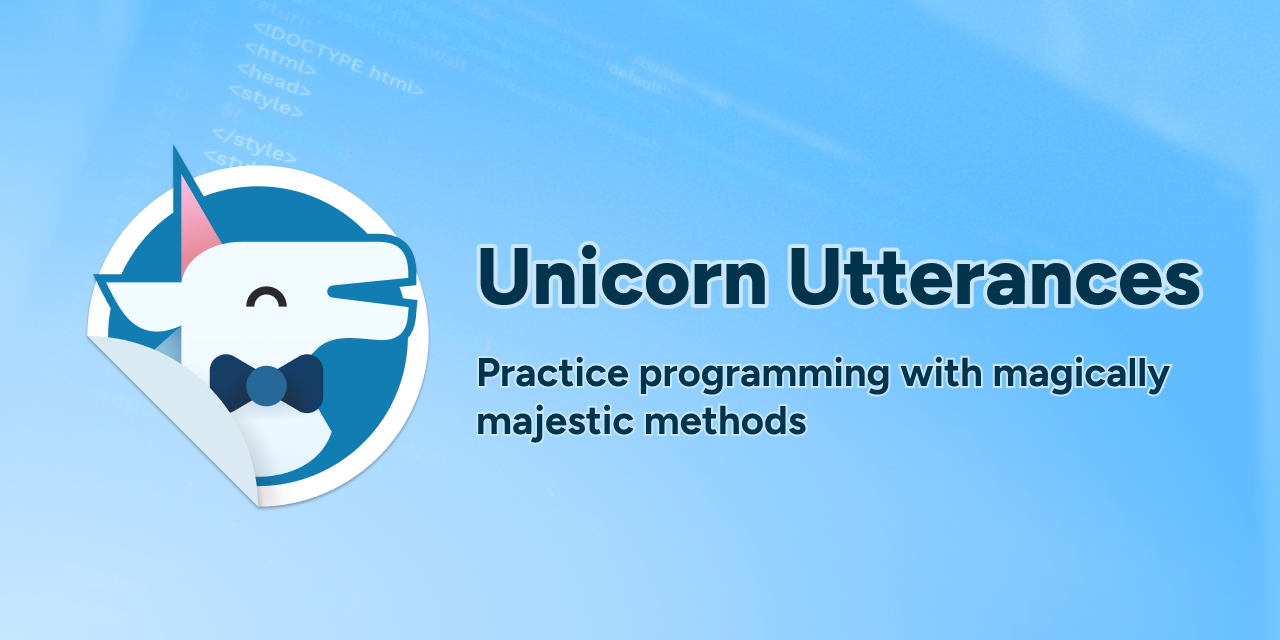
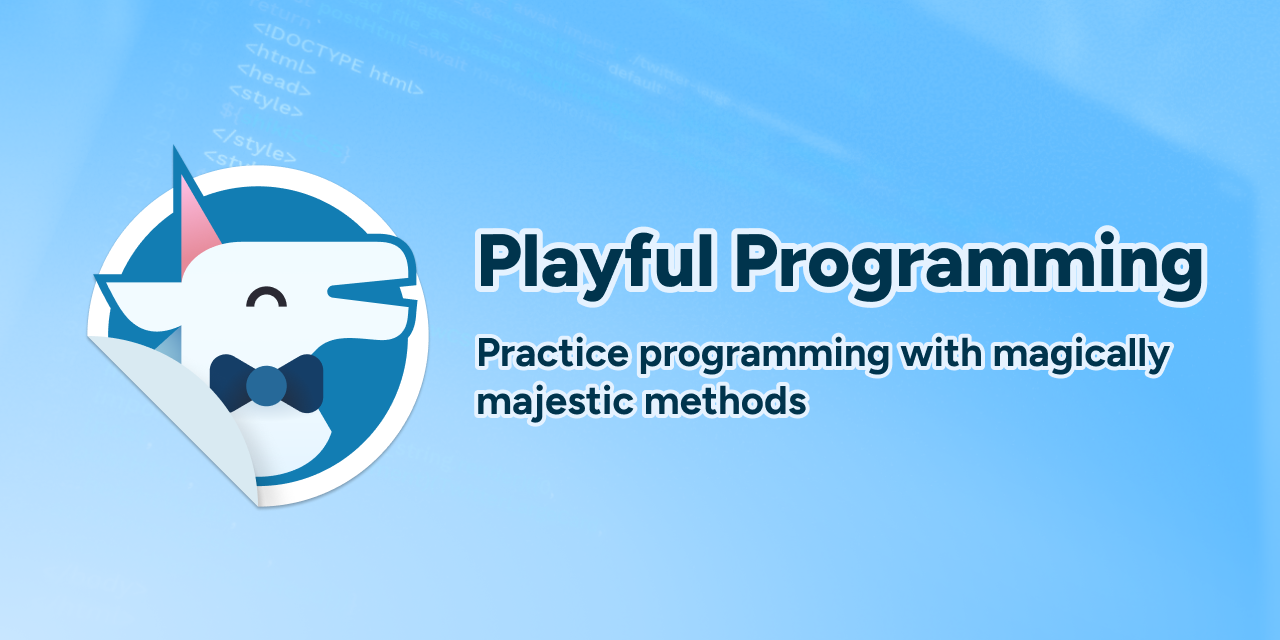
chore: update all references to the old GH repo/org to the new one

Changed region(s): [[0.3438, 0.3438, 0.9688, 0.6875]]

diff --git a/src/utils/achievements/github.ts b/src/utils/achievements/github.ts
@@ -59,7 +59,7 @@ if (userResult) {
 
 const dataQuery = `
 query($login: String, $id: ID, $prSearch: String!) {
-	repository(owner: "unicorn-utterances", name: "unicorn-utterances") {
+	repository(owner: "playfulprogramming", name: "playfulprogramming") {
 		defaultBranchRef {
 			target {
 				... on Commit {
@@ -97,7 +97,7 @@ export async function fetchGitHubData(
 	const response = (await octokit.graphql(dataQuery, {
 		login,
 		id,
-		prSearch: `repo:unicorn-utterances/unicorn-utterances is:pr author:${login}`,
+		prSearch: `repo:playfulprogramming/playfulprogramming is:pr author:${login}`,
 	})) as {
 		repository: {
 			defaultBranchRef: {

diff --git a/src/constants/site-config.ts b/src/constants/site-config.ts
@@ -31,7 +31,7 @@ const siteMetadata = {
 	title: `Playful Programming`,
 	description: `Learning programming from magically majestic words. A place to learn about all sorts of programming topics from entry-level concepts to advanced abstractions`,
 	siteUrl,
-	repoPath: "unicorn-utterances/unicorn-utterances",
+	repoPath: "playfulprogramming/playfulprogramming",
 	relativeToPosts: "/content/blog",
 	keywords:
 		"programming,development,mobile,web,game,playful,software engineering,javascript,angular,react,computer science",

diff --git a/src/components/select/select.tsx b/src/components/select/select.tsx
@@ -88,7 +88,7 @@ export function SelectWithLabel<T extends object>({
 
 	const { buttonProps } = useButton(triggerProps, ref);
 
-	// fix: ids passed to aria-labelledby are in the reverse order: https://github.com/unicorn-utterances/unicorn-utterances/issues/805
+	// fix: ids passed to aria-labelledby are in the reverse order: https://github.com/playfulprogramming/playfulprogramming/issues/805
 	buttonProps["aria-labelledby"] = buttonProps["aria-labelledby"]
 		.split(" ")
 		.reverse()

diff --git a/src/views/search/search-page.tsx b/src/views/search/search-page.tsx
@@ -321,7 +321,7 @@ function SearchPageBase() {
 					position: "sticky",
 					// this should be overflow: clip; to prevent the browser scrolling within the element when a filter checkbox is focused:
 					// https://stackoverflow.com/q/75419337
-					// https://github.com/unicorn-utterances/unicorn-utterances/issues/653
+					// https://github.com/playfulprogramming/playfulprogramming/issues/653
 					overflow: "clip",
 				}}
 				searchString={search}

diff --git a/src/views/search/components/filter-dialog.tsx b/src/views/search/components/filter-dialog.tsx
@@ -289,7 +289,7 @@ export const FilterDialog = ({
 	const windowSize = useWindowSize();
 
 	// Adding 100px as a workaround since the mobile breakpoint is too small for this layout
-	// https://github.com/unicorn-utterances/unicorn-utterances/issues/655
+	// https://github.com/playfulprogramming/playfulprogramming/issues/655
 	const isMobile = windowSize.width <= mobile + 100;
 
 	const Inner = isMobile ? FilterDialogMobile : FilterDialogSmallTablet;

diff --git a/src/views/search/components/filter-section.tsx b/src/views/search/components/filter-section.tsx
@@ -41,7 +41,7 @@ export const FilterSection = ({
 
 	// When cleared, the focus needs to be passed to the heading button
 	// to avoid resetting to <body> when the clear button is removed from the DOM.
-	// https://github.com/unicorn-utterances/unicorn-utterances/issues/742
+	// https://github.com/playfulprogramming/playfulprogramming/issues/742
 	const buttonRef = useRef<HTMLButtonElement | null>(null);
 	const handleClear = () => {
 		onClear();

diff --git a/src/components/checkbox-box/checkbox-box.module.scss b/src/components/checkbox-box/checkbox-box.module.scss
@@ -47,7 +47,7 @@
 	// prevents the user from selecting nodes inside the checkbox, which causes
 	// strange behavior when the state is changed (possibly caused by the browser
 	// re-evaluating the selection when the checkbox is re-rendered)
-	// https://github.com/unicorn-utterances/unicorn-utterances/issues/652
+	// https://github.com/playfulprogramming/playfulprogramming/issues/652
 	user-select: none;
 }
 

diff --git a/src/utils/markdown/shiki/shiki-tabindex-script.ts b/src/utils/markdown/shiki/shiki-tabindex-script.ts
@@ -4,7 +4,7 @@
  * These are added by shiki, but can be removed with JS on elements that
  * cannot be horizontally scrolled.
  *
- * https://github.com/unicorn-utterances/unicorn-utterances/issues/738
+ * https://github.com/playfulprogramming/playfulprogramming/issues/738
  */
 export const enableShikiTabindex = () => {
 	const codeContainerEls = document.querySelectorAll("pre.shiki > code");

diff --git a/src/views/search/components/filter-dialog.module.scss b/src/views/search/components/filter-dialog.module.scss
@@ -32,7 +32,7 @@
 	border: none;
 	// this should be overflow: clip; to prevent the browser scrolling within the element when a filter checkbox is focused:
 	// https://stackoverflow.com/q/75419337
-	// https://github.com/unicorn-utterances/unicorn-utterances/issues/653
+	// https://github.com/playfulprogramming/playfulprogramming/issues/653
 	overflow: clip;
 }
 

diff --git a/content/site/about-us.bn.md b/content/site/about-us.bn.md
@@ -4,7 +4,7 @@
 
 আমাদের বিষয়বস্তুর বিস্তৃত পরিসর থাকবে। আমরা অভিজ্ঞ ফুল-টাইম ডেভেলপারের জন্য সম্পদ তৈরি করতে চাই যেমন আমরা একজন নবাগত সাথী এবং উভয়ের মধ্যে প্রত্যেকের জন্য করব।.
 
-যদিও আমরা জানি এটি একটি উচ্চ লক্ষ্য, এবং আমরা এটি একা করতে চাই না. আপনি যদি সাহায্য করতে আগ্রহী হন,[open a pull request](https://github.com/unicorn-utterances/unicorn-utterances/pulls) এবং অনুবাদ প্রদান করে আমাদের অন্যদের কাছে পৌঁছাতে সাহায্য করুন, [এই সাইটে কোড রক্ষণাবেক্ষণে সহায়তা করুন](https://github.com/unicorn-utterances/unicorn-utterances/issues?q=is%3Aopen+is%3Aissue+label%3A%22good+first+issue%22), [আমাদের জন্য একটি পোস্ট লিখুন](https://github.com/unicorn-utterances/unicorn-utterances#blog-posts), বা [আলোচনায় ঝাঁপিয়ে পড়ুন এবং আমাদের ডিসকর্ডে অন্যান্য পাঠকদের সাহায্য করুন](https://discord.gg/FMcvc6T).
+যদিও আমরা জানি এটি একটি উচ্চ লক্ষ্য, এবং আমরা এটি একা করতে চাই না. আপনি যদি সাহায্য করতে আগ্রহী হন,[open a pull request](https://github.com/playfulprogramming/playfulprogramming/pulls) এবং অনুবাদ প্রদান করে আমাদের অন্যদের কাছে পৌঁছাতে সাহায্য করুন, [এই সাইটে কোড রক্ষণাবেক্ষণে সহায়তা করুন](https://github.com/playfulprogramming/playfulprogramming/issues?q=is%3Aopen+is%3Aissue+label%3A%22good+first+issue%22), [আমাদের জন্য একটি পোস্ট লিখুন](https://github.com/playfulprogramming/playfulprogramming#blog-posts), বা [আলোচনায় ঝাঁপিয়ে পড়ুন এবং আমাদের ডিসকর্ডে অন্যান্য পাঠকদের সাহায্য করুন](https://discord.gg/FMcvc6T).
 
 ---
 
@@ -20,6 +20,6 @@
 
 ## নীতিশাস্ত্রের বিবৃতি {#ethics}
 
-আমরা কখনই এমন জায়গায় যেতে চাই না যেখানে আমাদের শিক্ষাগত বিষয়বস্তু, অভিজ্ঞতা বা সম্প্রদায়ের আর্থিক প্রভাব বা সম্প্রদায়ের সম্ভাব্য ক্ষতিকারক সদস্যদের দ্বারা আপস করা হয়। যেমন, আমরা বাস্তবায়ন করেছি [অবদানকারী চুক্তি](https://www.contributor-covenant.org/) আমাদের [আচরণবিধি হিসাবে](https://github.com/unicorn-utterances/unicorn-utterances/blob/master/CODE_OF_CONDUCT.md) এই মান বজায় রাখা.
+আমরা কখনই এমন জায়গায় যেতে চাই না যেখানে আমাদের শিক্ষাগত বিষয়বস্তু, অভিজ্ঞতা বা সম্প্রদায়ের আর্থিক প্রভাব বা সম্প্রদায়ের সম্ভাব্য ক্ষতিকারক সদস্যদের দ্বারা আপস করা হয়। যেমন, আমরা বাস্তবায়ন করেছি [অবদানকারী চুক্তি](https://www.contributor-covenant.org/) আমাদের [আচরণবিধি হিসাবে](https://github.com/playfulprogramming/playfulprogramming/blob/master/CODE_OF_CONDUCT.md) এই মান বজায় রাখা.
 
 আমরা প্রকল্পের মাধ্যমে প্রবাহিত যেকোন অর্থের ক্ষেত্রে স্বচ্ছতা বজায় রাখার অঙ্গীকার করি। প্রতিটি স্পনসরশিপে একটি আর্থিক অবদান থাকে না, তবে কেউ যদি করে তবে আমরা উভয়ই প্রকাশ করব সেই অর্থগুলি কি কারণে ব্যবহার করা হচ্ছে

diff --git a/content/crutchcorn/posts/a-complete-history-of-uu/index.md b/content/crutchcorn/posts/a-complete-history-of-uu/index.md
@@ -63,7 +63,7 @@ While Unicorn Utterances has always been a volunteer-ran platform, let's a look 
 
 - May 30th, 2019: Tom Wellington is approached to design the initial UI for the site.
 
-- May 31st, 2019: [The initial commit of Unicorn Utterances is made](https://github.com/unicorn-utterances/unicorn-utterances/commit/567f3d32b3c2a1bdeca95f2b3c16026901b539cb), starting development in [Gatsby](https://web.archive.org/web/20190625131121/https://www.gatsbyjs.com/).
+- May 31st, 2019: [The initial commit of Unicorn Utterances is made](https://github.com/playfulprogramming/playfulprogramming/commit/567f3d32b3c2a1bdeca95f2b3c16026901b539cb), starting development in [Gatsby](https://web.archive.org/web/20190625131121/https://www.gatsbyjs.com/).
 
 - June 5th, 2019: Tom provides the first mockups for the site:
 
@@ -93,7 +93,7 @@ While Unicorn Utterances has always been a volunteer-ran platform, let's a look 
 
 - February 2nd, 2020: [Corbin starts streaming regularly on Twitch](https://www.twitch.tv/crutchcorn) to help others learn and have fun.
 
-- November 29th, 2021: [The site begins its rewrite to Next.js](https://github.com/unicorn-utterances/unicorn-utterances/pull/289) due to buggy customization in Gatsby interrupting site development.
+- November 29th, 2021: [The site begins its rewrite to Next.js](https://github.com/playfulprogramming/playfulprogramming/pull/289) due to buggy customization in Gatsby interrupting site development.
 
 - January 9th 2022: Corbin starts work on [The Framework Field Guide](https://framework.guide) privately; aiming to be the platform's first book published.
 
@@ -102,11 +102,11 @@ While Unicorn Utterances has always been a volunteer-ran platform, let's a look 
 # Maturing The Platform
 
 
-- June 11th, 2022: [The initial announcement for "The Framework Field Guide" is launched](https://github.com/unicorn-utterances/unicorn-utterances/pull/367)
+- June 11th, 2022: [The initial announcement for "The Framework Field Guide" is launched](https://github.com/playfulprogramming/playfulprogramming/pull/367)
 
   ![A simple website with a book cover of the outdoors - a lake and mountains - with a "Get notified of release" button](./ffg_first_preview.png)
 
-- July 9th, 2022: [The site begins its rewrite to Astro](https://github.com/unicorn-utterances/unicorn-utterances/pull/386) due to performance problems in the Next.js site.
+- July 9th, 2022: [The site begins its rewrite to Astro](https://github.com/playfulprogramming/playfulprogramming/pull/386) due to performance problems in the Next.js site.
 
 - August 2nd, 2022: Corbin approaches Eduardo Pratti with a request to redesign "The Framework Field Guide"'s website.
 
@@ -118,13 +118,13 @@ While Unicorn Utterances has always been a volunteer-ran platform, let's a look 
 
   ![A playful site mockup with lightly bordered cards, stickers everywhere, and pastel colors](./uu_ed_initial_redesign.png)
 
-- November 8th, 2022: [The new landing page for "The Framework Field Guide" starts development.](https://github.com/unicorn-utterances/unicorn-utterances/pull/436)
+- November 8th, 2022: [The new landing page for "The Framework Field Guide" starts development.](https://github.com/playfulprogramming/playfulprogramming/pull/436)
 
 - December 3rd, 2022: The site's migration to Astro is finalized, original design in place. The lighthouse score on every page is improved; on some pages it is even doubled.
 
 - December 6th, 2022: The new landing page for "The Framework Field Guide" launches
 
-- March 3rd, 2022: [The site's redesign, led by Eduardo Pratti and James Fenn, launches](https://github.com/unicorn-utterances/unicorn-utterances/pull/497)
+- March 3rd, 2022: [The site's redesign, led by Eduardo Pratti and James Fenn, launches](https://github.com/playfulprogramming/playfulprogramming/pull/497)
 
   > Fun fact, this redesign was codenamed "UwU" as joke amongst the team.
 

diff --git a/CONTRIBUTING.md b/CONTRIBUTING.md
@@ -8,7 +8,7 @@ Here are a few things to keep in mind while writing your post:
 - Aim to provide factual and relevant information - citing sources is encouraged!
 - Keep your content unbiased; i.e. don't advertise commercial products or services without reason.
 
-If at any point you get stuck or want to ask questions, feel free to [open an issue on GitHub](https://github.com/unicorn-utterances/unicorn-utterances/issues/new) or [reach out to us on Discord](https://discord.gg/FMcvc6T) for help!
+If at any point you get stuck or want to ask questions, feel free to [open an issue on GitHub](https://github.com/playfulprogramming/playfulprogramming/issues/new) or [reach out to us on Discord](https://discord.gg/FMcvc6T) for help!
 
 ---
 
@@ -44,7 +44,7 @@ Here's an example of what your `index.md` might look like:
   // and "cohost", as well as a "website" that can be anything you want!
   socials: {
     mastodon: "https://hachyderm.io/@UnicornUtterances",
-    github: "unicorn-utterances",
+    github: "playfulprogramming",
     website: "https://playfulprogramming.com/"
   },
 
@@ -63,7 +63,7 @@ Here's an example of what your `index.md` might look like:
 ---
 ```
 
-> Don't want to show your real picture on the site? That's alright! We have a [myriad of custom unicorn emotes that can be used as profile pictures as well](https://github.com/unicorn-utterances/design-assets/tree/main/emotes). They're adorable, go check! 🤩
+> Don't want to show your real picture on the site? That's alright! We have a [myriad of custom unicorn emotes that can be used as profile pictures as well](https://github.com/playfulprogramming/design-assets/tree/main/emotes). They're adorable, go check! 🤩
 
 Once your profile is created, you'll be ready to proceed to the next step...
 
@@ -117,7 +117,7 @@ Currently, the following creative commons licenses are supported as "license" va
 - [`'cc-by-nc-nd-4'`](https://creativecommons.org/licenses/by-nc-nd/4.0/)
 - [`'publicdomain-zero-1'`](https://creativecommons.org/publicdomain/zero/1.0/)
 
-Authors may also choose to omit the "license" property entirely. If you do this, your post will fall under the repository's [MPL 2.0](https://github.com/unicorn-utterances/unicorn-utterances/blob/main/LICENSE.md) license.
+Authors may also choose to omit the "license" property entirely. If you do this, your post will fall under the repository's [MPL 2.0](https://github.com/playfulprogramming/playfulprogramming/blob/main/LICENSE.md) license.
 
 ## Embedded Links
 
@@ -167,7 +167,7 @@ Refer to [Wikipedia: List of ISO 639-1 codes](https://en.wikipedia.org/wiki/List
 
 Once all of your changes have been made, [create a Pull Request](https://docs.github.com/en/pull-requests/collaborating-with-pull-requests/proposing-changes-to-your-work-with-pull-requests/creating-a-pull-request-from-a-fork) to merge your post into the site.
 
-- Open a [new Pull Request](https://github.com/unicorn-utterances/unicorn-utterances/compare) from your fork
+- Open a [new Pull Request](https://github.com/playfulprogramming/playfulprogramming/compare) from your fork
 - Check that your files are in the Pull Request, and that they're being merged into the `main` branch.
 - Create the PR and wait for a maintainer to review it.
 - Once merged, your post will be visible on the site!
